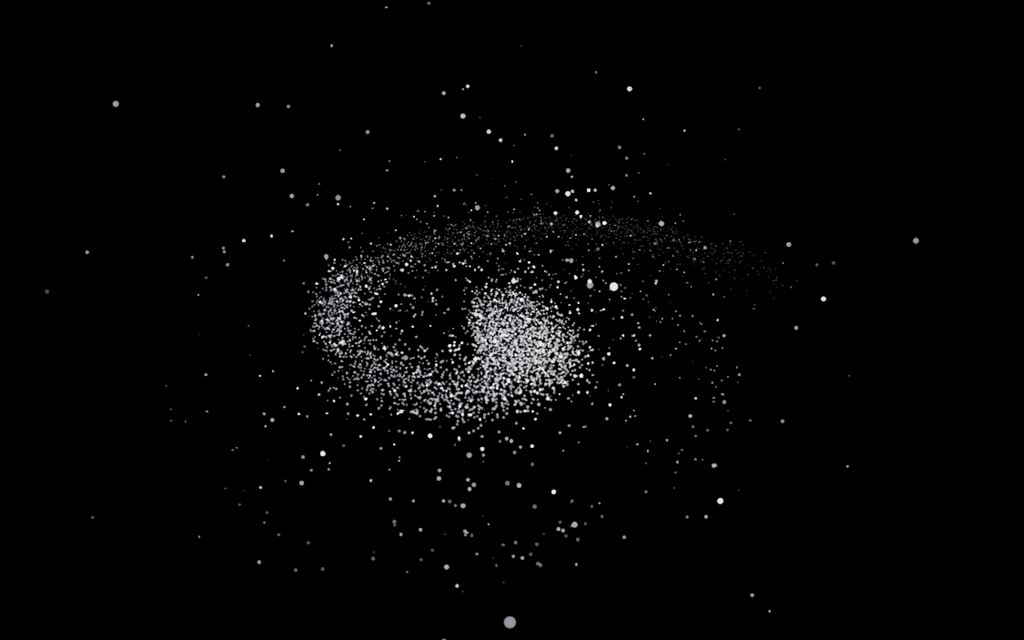
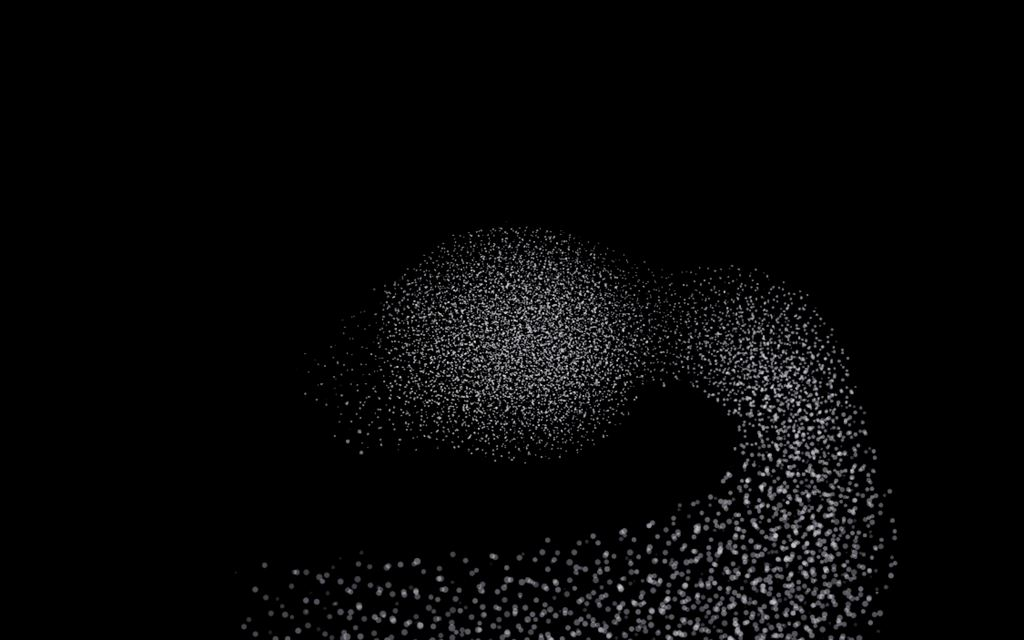
feat(app): the demo card turns up - 12k, faster, both fields alive
Density doubles on desktop (12k on the GPU path; touch keeps 4k, where
phones need the headroom), and the reactions get teeth: harder forces
and a higher top speed, a stronger shared heartbeat, a shorter lifespan
so the turnover reads, and BOTH stigmergic fields - the swarm follows
its scent veins (stickier on its own trails) and scatters off its own
hot trails, so a viewer can feel the parameters working just by
watching.

The first pass was too hot: forceScale 11 with low friction blew the
boot transient apart and the card spent its first minute half-empty.
Tempered to 9.5 / 0.82 friction, the card is full and alive at second
eight and stays dramatic mid-cycle. Measured at 12k: sim 7.8 ms avg
(max 13), one readback, 189 kB - the budgets hold with room to spare.
The poster is a still of the new demo mid-cycle (64 kB).

Changed region(s): [[0.25, 0.3125, 0.875, 1.0], [0.5312, 0.2812, 0.5625, 0.3125]]

diff --git a/src/app/main.ts b/src/app/main.ts
@@ -723,31 +723,33 @@ renderer3d.domElement.addEventListener("wheel", (e) => {
   // Demo mode applies the Portrait look and the authored cycle before the
   // count param can adjust the density.
   if (demoMode) {
-    currentCount = coarsePointer ? 4000 : 6000;
+    currentCount = coarsePointer ? 4000 : 12000;
     // The demo look: built on Portrait's quiet reconstruction, then opened
     // up so the card reads as ALIVE on its own — a strong shared heartbeat
-    // (every particle breathes in sync), visible wander and turbulence, a
-    // scent field the swarm writes and follows (the slow veins of a
-    // Physarum), gentle births and deaths, and species colour so the
-    // ecosystem's clusters and chases are legible at card size.
+    // (every particle breathes in sync), fast visible reactions, both
+    // stigmergic fields (the swarm follows its scent veins and scatters off
+    // its own hot trails), gentle births and deaths, and the default matrix
+    // so the species' pulls and pushes show as real spatial drama.
     const portraitDef = PRESET_DEFINITIONS.find((d) => d.name === "portrait")!;
     applyPreset(portraitDef, params, visual, matrix, ecologyParams, activeCamera);
     Object.assign(params.memory, { strength: 3.2, decay: 0, reconstructionEase: 1 });
     Object.assign(params.life, {
       interactionRadius: 0.95,
       coreRadius: 0.28,
-      forceScale: 8,
-      friction: 0.84,
-      attraction: 1.1,
-      repulsion: 0.9,
-      chaos: 0.14,
-      maxSpeed: 5,
+      forceScale: 9.5,
+      friction: 0.82,
+      attraction: 1.15,
+      repulsion: 0.95,
+      chaos: 0.18,
+      maxSpeed: 6,
     });
-    params.wander = 0.09;
-    params.phaseCoupling = 1.8;
-    params.turbulence = 0.09;
-    Object.assign(params.scent, { enabled: true, deposit: 0.7, decay: 0.45, steer: 1.8 });
-    Object.assign(params.lifecycle, { enabled: true, lifespan: 50, spread: 1 });
+    params.wander = 0.11;
+    params.phaseCoupling = 2.2;
+    params.turbulence = 0.12;
+    Object.assign(params.scent, { enabled: true, deposit: 0.9, decay: 0.45, steer: 2.4 });
+    Object.assign(params.heat, { enabled: true, deposit: 0.45, decay: 0.3, steer: -1.2 });
+    Object.assign(params.environment, { scent: 0.6, heat: 0 });
+    Object.assign(params.lifecycle, { enabled: true, lifespan: 35, spread: 1 });
     Object.assign(visual, {
       // White particles on black: the cloud's own cool white (SOURCE), so
       // the card sits quietly inside the site's design.
